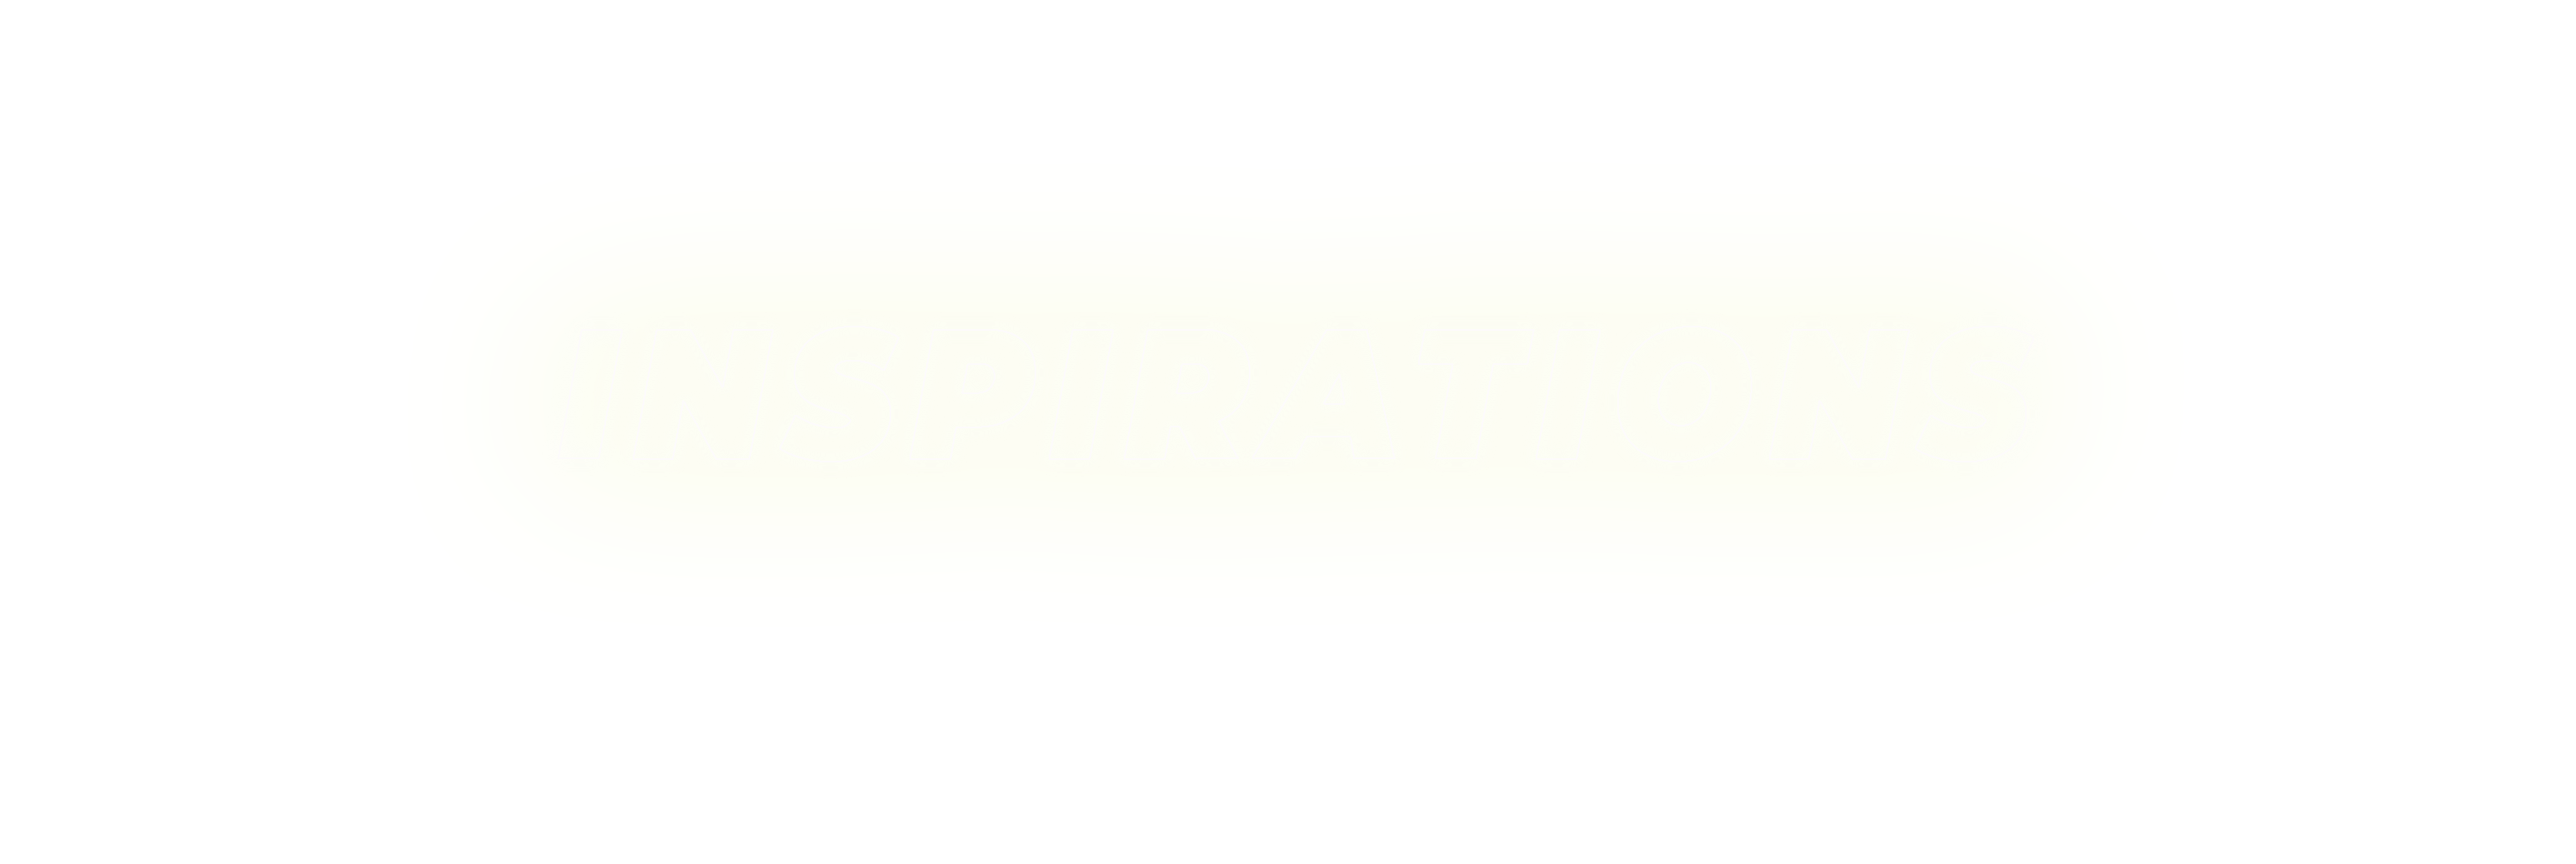
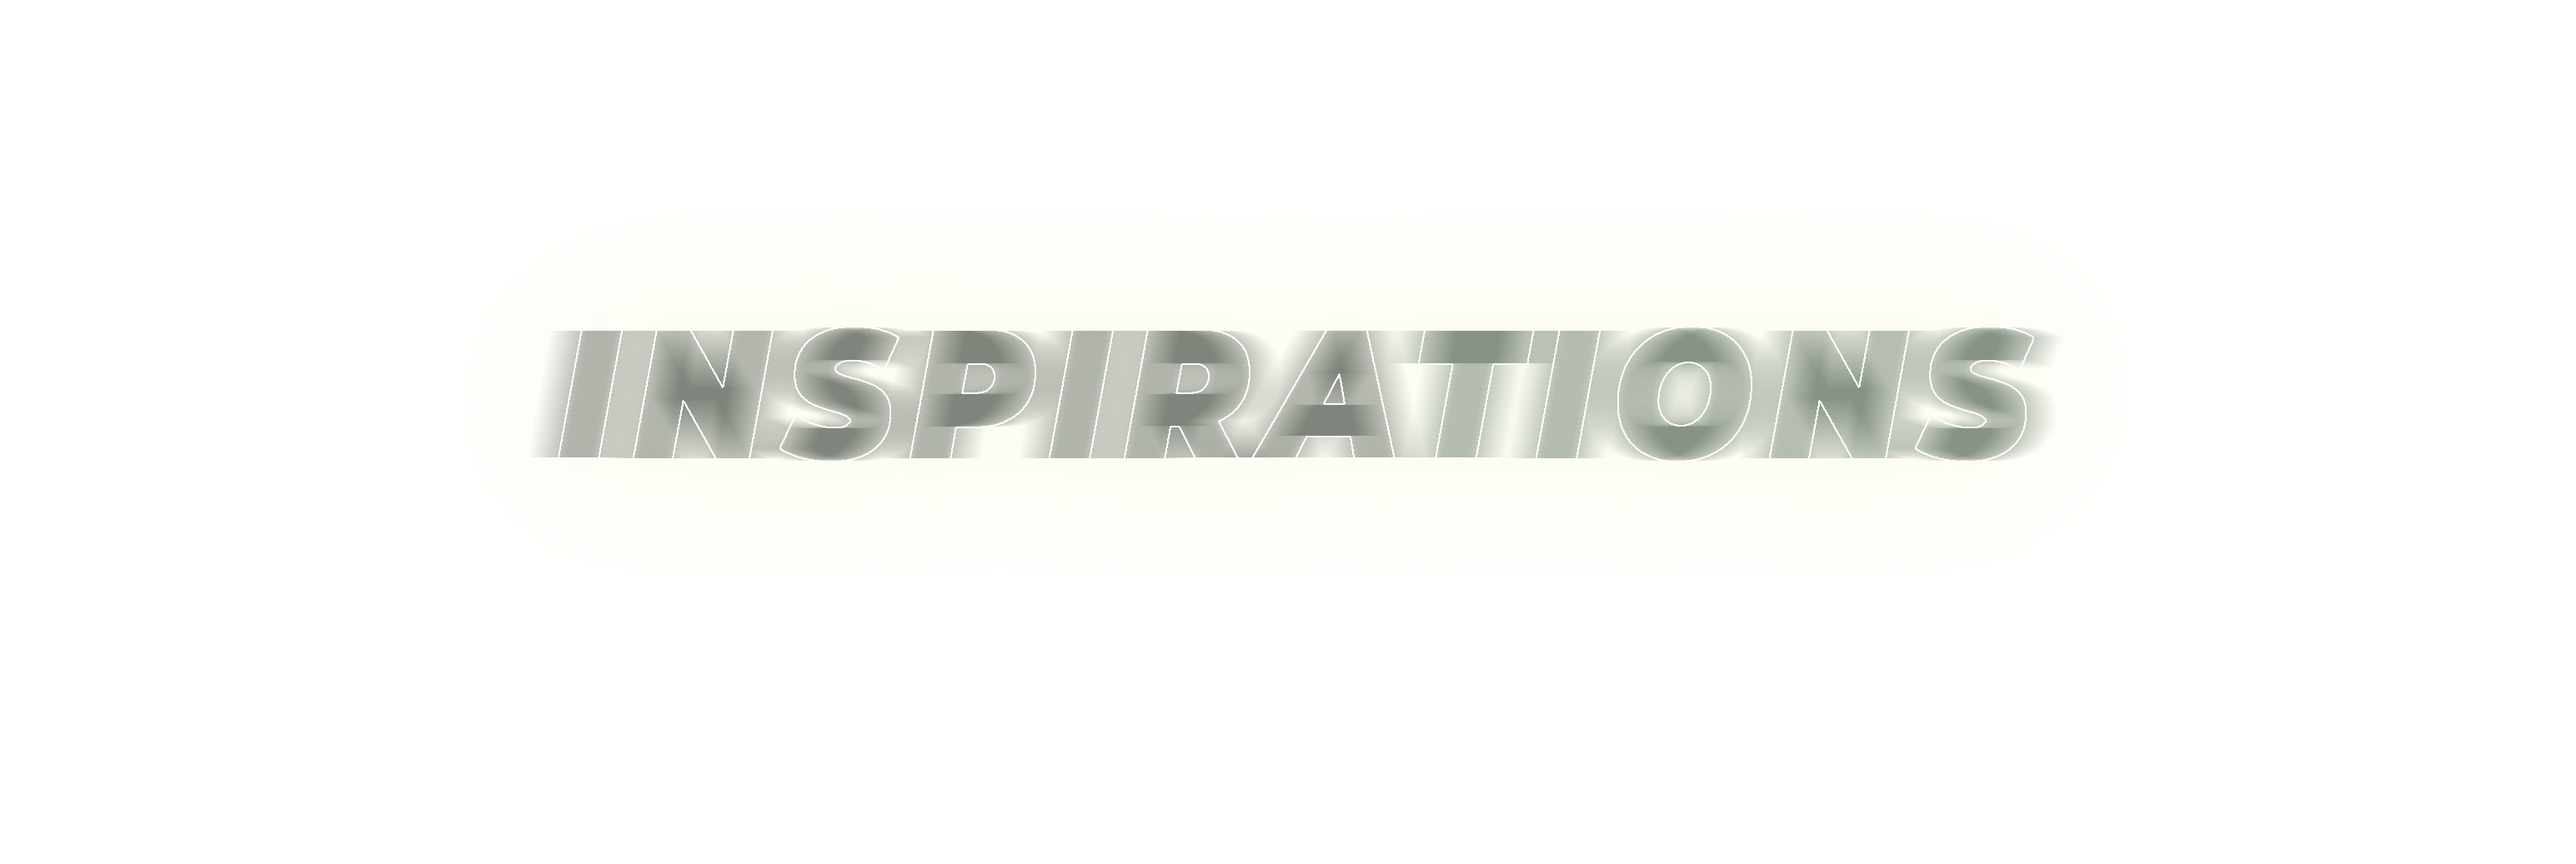
title fixed and back button

Changed region(s): [[0.1864, 0.3703, 0.8078, 0.5554]]

diff --git a/app/assets/stylesheets/pages/_inspirations.scss b/app/assets/stylesheets/pages/_inspirations.scss
@@ -4,7 +4,6 @@
 	display: flex;
 	align-content: center;
 	justify-content: center;
-}
 
 	.nuancier {
 		position: absolute;
@@ -12,6 +11,11 @@
 		box-shadow: 8px 2px 32px -1px rgba(0,0,0,0.75);
 		box-shadow: -8px 2px 32px -1px rgba(0,0,0,0.75);
 	}
+    
+    .inspirations-title {
+    	position: fixed;
+    }
+}
 
 .background-inspirations {
 	background: url('background_inspirations.jpg');
@@ -20,24 +24,7 @@
 	background-size: cover;
 	background-repeat: no-repeat;
 	width: 70%;
-
-	.inspirations-title { 
-	display: flex;
-	justify-content: center;
-	align-items: center;
 }
-}
-
-.inspirations-title { 
-	display: flex;
-	justify-content: center;
-	align-items: center;
-	
-}
-
-
-
-
 
 
 //GRIIIIIIIDDDDDDD//
@@ -51,7 +38,7 @@
 	grid-template-columns: 10% 10% 10% 10% 10% 10% 10% 10% 10% 10%;
 	grid-template-rows: 80px 80px 80px 80px 80px 80px 80px 80px 80px 80px 80px 80px 80px 80px 80px 80px 80px 80px 80px 80px 80px 80px 80px 80px 80px 80px 80px 80px 80px 80px 80px 80px 80px 80px 80px 80px 80px 80px 80px 80px 80px 80px 80px 80px 80px 80px 80px;
 	grid-gap: 10px;
-	margin-top: 80px;
+	margin-top: 322px;
 }
 
 .row-1-col-2-span-7-MIES {
@@ -184,7 +171,7 @@
 	margin-left: 11px;
 	&:hover {
 		grid-row: 32 / 35;
-	grid-column: 1 / 4;
+		grid-column: 1 / 4;
 		background-image: url('inspi-gemeos-glitch.jpg');
 	}
 }
@@ -241,8 +228,8 @@
 	margin-top: 88px;
 
 	&:hover {
-	grid-row: 41 / 47;
-	grid-column: 2 / 8;
+		grid-row: 41 / 47;
+		grid-column: 2 / 8;
 		background-image: url('inspi-ferris-glitch.jpg');
 	}
 }

diff --git a/app/assets/stylesheets/components/_text.scss b/app/assets/stylesheets/components/_text.scss
@@ -58,3 +58,8 @@ p {
 	font-family: 'Montserrat', sans-serif;
     font-weight: 200;
 }
+
+a:hover, a:visited, a:link, a:active {
+	text-decoration: none;
+	color: #232222;
+}
